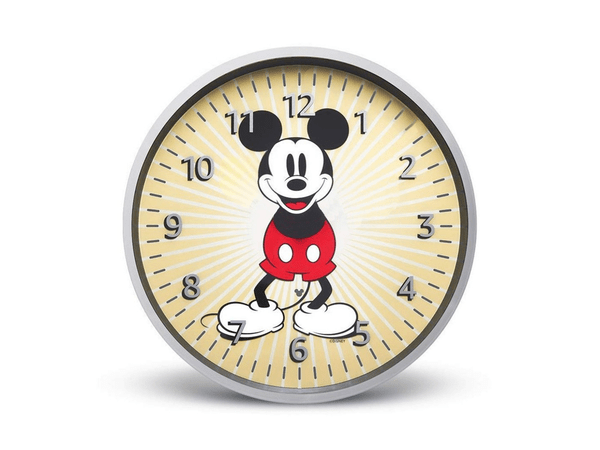
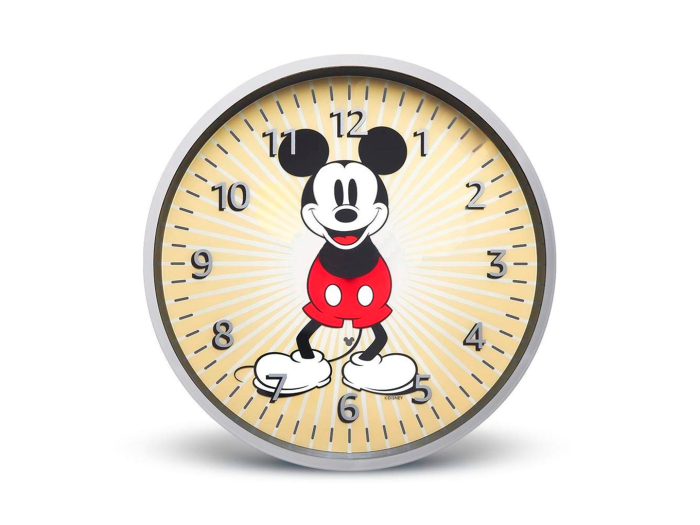
lab7

diff --git a/lab7/clock.py b/lab7/clock.py
@@ -1,40 +1,44 @@
-import pygame as pg 
-from datetime import datetime as dt
+import pygame 
+import datetime 
+ 
+ 
+pygame.init() 
+screen = pygame.display.set_mode((800,600)) 
+ 
+clock=pygame.time.Clock() 
+ 
+white=(255,255,255) 
+ 
+image = pygame.image.load("images/mainclock.png")
+imageL = pygame.image.load("images/leftarm.png")
+imageR = pygame.image.load("images/rightarm.png")
 
-# pygame initialization
-pg.init()
-screen = pg.display.set_mode((600, 450))
-window_title = pg.display.set_caption("mickey mouse clock")
-#icon = pg.display.set_icon(pg.image.load(r"clock_assets/icon.png"))
-clock = pg.time.Clock()
-
-# loading the images 
-bg_surf = pg.image.load("images/mainclock.png")
-leftarm_surf = pg.image.load("images/leftarm.png")
-rightarm_surf = pg.image.load("images/rightarm.png")
-bg_rect = bg_surf.get_rect(center = (300, 225))
-
-done = False
-
-while not done:
-    for event in pg.event.get():
-        if event.type == pg.QUIT:
-            done = True
-
-    current_time = dt.now().time()
-
-    seconds_angle = -(current_time.second * 6)
-    minutes_angle = -(current_time.minute * 6)
-
-    rotated_leftarm = pg.transform.rotate(leftarm_surf, seconds_angle)
-    rotated_rightarm = pg.transform.rotate(rightarm_surf, minutes_angle)
-
-    leftarm_rect = rotated_leftarm.get_rect(center = (340, 250))
-    rightarm_rect = rotated_rightarm.get_rect(center = (230,230))
-
-    screen.blit(bg_surf, bg_rect)
-    screen.blit(rotated_leftarm, leftarm_rect)
-    screen.blit(rotated_rightarm, rightarm_rect)
-
-    pg.display.flip()
-    clock.tick(60)
+ 
+done = False 
+ 
+while not done: 
+        for event in pygame.event.get(): 
+                if event.type == pygame.QUIT: 
+                        done = True 
+        screen.fill(white) 
+ 
+        screen.blit(image, (50, 30)) 
+ 
+        curr_date=datetime.datetime.now() 
+        curr_min=curr_date.minute 
+        curr_sec=curr_date.second 
+        minute_angle = (curr_min +4 / 60) * (-360)   
+        second_angle = (curr_sec/ 60) * (-360)   
+ 
+        rotated_Rhand=pygame.transform.rotate(imageR,minute_angle) 
+        Rhand_move=rotated_Rhand.get_rect(center=(400, 300)) 
+        screen.blit(rotated_Rhand, Rhand_move) 
+ 
+        rotated_Lhand = pygame.transform.rotate(imageL, second_angle) 
+        Lhand_move = rotated_Lhand.get_rect(center=(400, 300)) 
+        screen.blit(rotated_Lhand, Lhand_move) 
+ 
+        pygame.display.flip() 
+        clock.tick(60) 
+ 
+pygame.quit()
